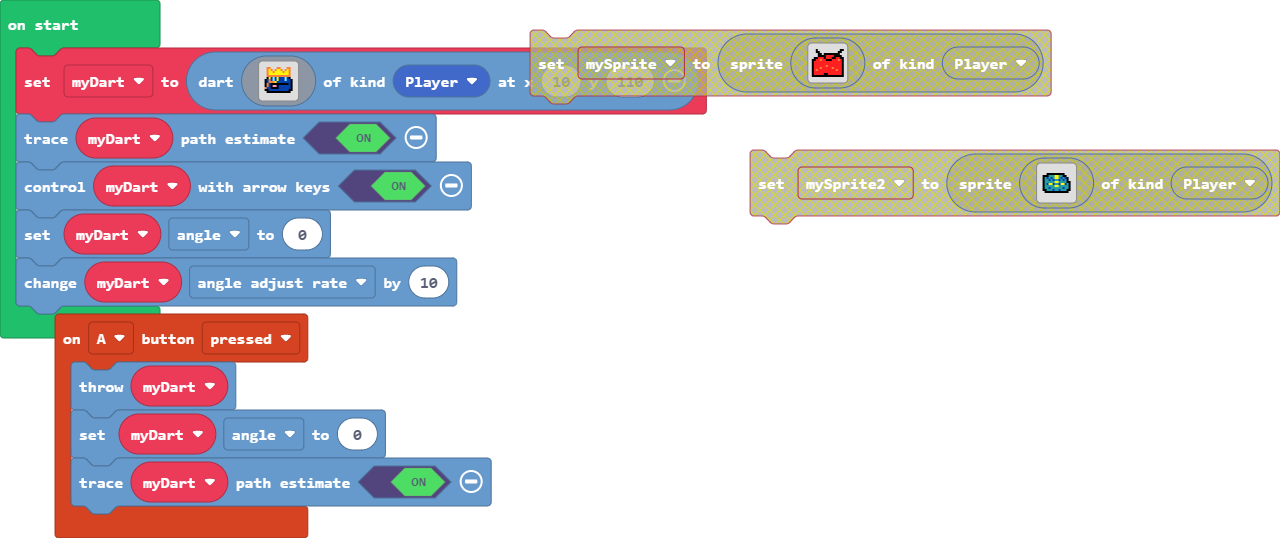
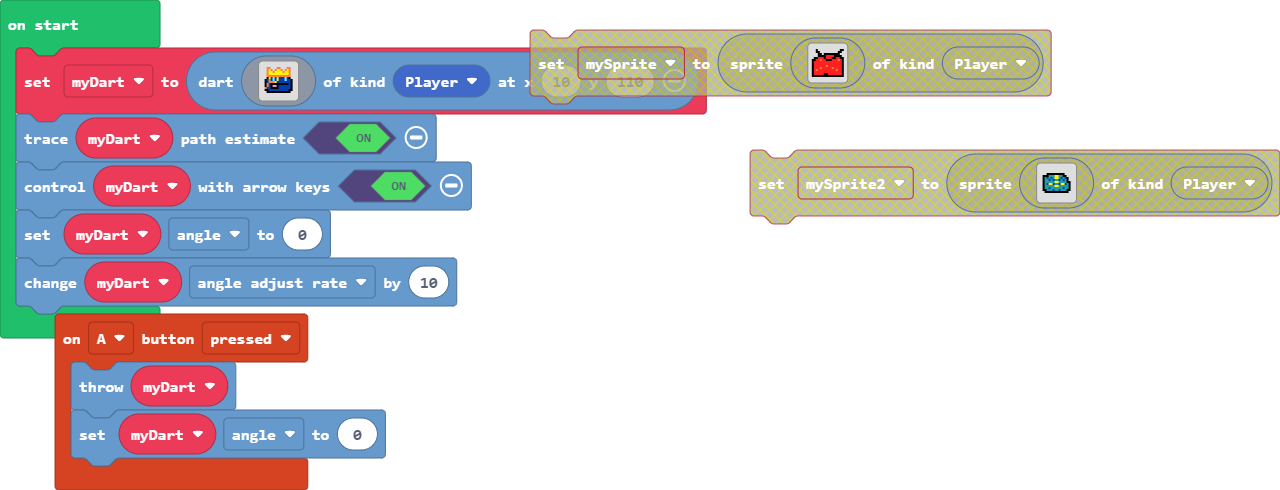
Update main.blocks, main.ts

Changed region(s): [[0.0, 0.0306, 0.8438, 0.9796], [0.5625, 0.2755, 1.0, 0.4592], [0.0, 0.0306, 0.0625, 0.0612]]

diff --git a/main.ts b/main.ts
@@ -1,7 +1,6 @@
 controller.A.onEvent(ControllerButtonEvent.Pressed, function () {
     myDart.throwDart()
     myDart.angle = 0
-    myDart.setTrace(true)
 })
 let myDart: Dart = null
 myDart = darts.create(img`
